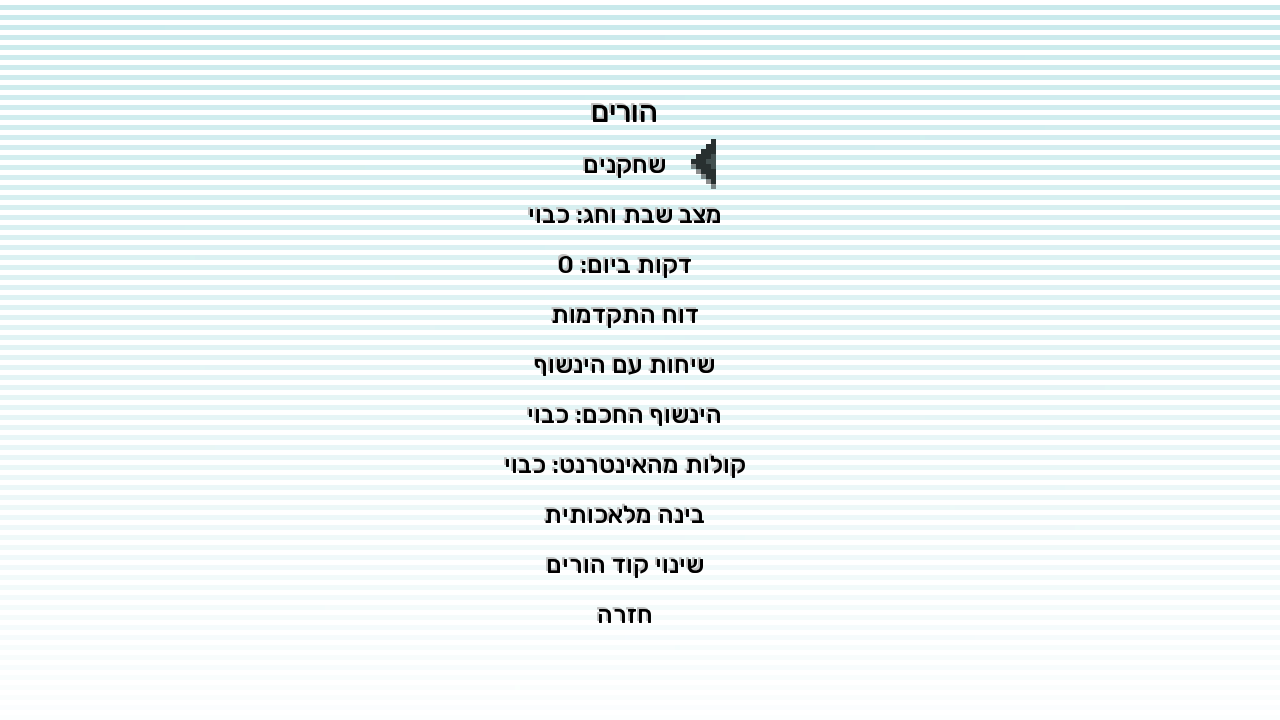
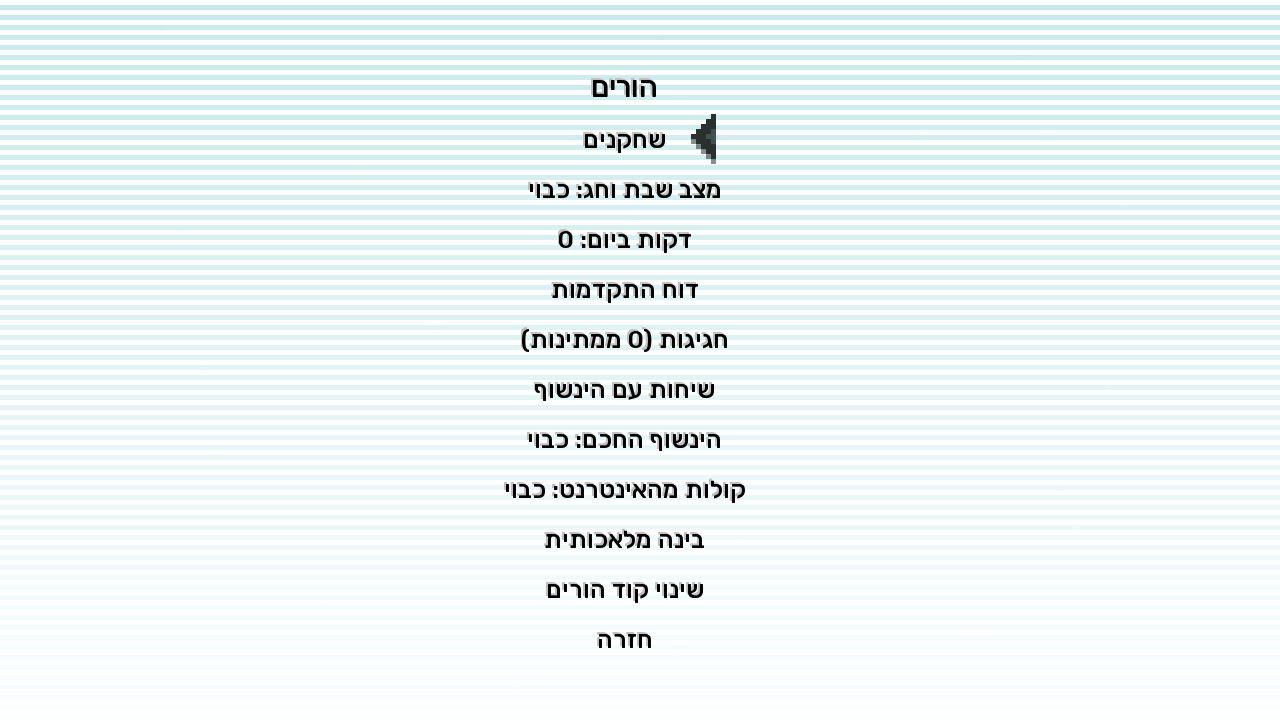
Suggest surprise celebrations to parents for effort milestones
Parents add a celebration only they can see; after each answer the game
checks the child's effort (practice days, mastered skills, stars, weekly
goals) and lists due celebrations in the parent area.

Claude-Session: https://claude.ai/code/session_01QXGUTMY9kQ8kTkR3CqxLvx

Changed region(s): [[0.375, 0.0917, 0.5938, 0.9167]]

diff --git a/mods/nagmon/states/profiles.py b/mods/nagmon/states/profiles.py
@@ -374,6 +374,7 @@ class ParentMenuState(PygameMenuState):
                 self.daily_minutes,
             ),
             ("report", T.translate("nagmon_parent_report"), self.report),
+            ("celebrate", self._celebrations_title(), self.celebrations),
             ("owl_log", T.translate("nagmon_parent_owl_log"), self.owl_log),
             ("owl", self._owl_title(), self.toggle_owl),
             ("voices", self._voices_title(), self.toggle_voices),
@@ -463,6 +464,82 @@ class ParentMenuState(PygameMenuState):
             )
 
         self._pick_child(show)
+
+    # -------------------------------------------------------- celebrations
+
+    MILESTONES: ClassVar[tuple[tuple[str, int], ...]] = (
+        ("practice_days", 5),
+        ("practice_days", 15),
+        ("skills_mastered", 3),
+        ("skills_mastered", 10),
+        ("stars", 10),
+        ("weekly_goals", 2),
+    )
+
+    def _celebrations_title(self) -> str:
+        pending = len(self.rt.rewards.pending())
+        return T.format("nagmon_celebrations", {"count": pending})
+
+    def celebrations(self) -> None:
+        board = self.rt.rewards
+        names = {p.id: p.name for p in self.rt.store.list()}
+        options: list[tuple[str, Callable[[], None]]] = []
+        for sug in board.pending():
+            who = names.get(sug.profile_id or "", "")
+            options.append(
+                (
+                    f"{who}: {sug.message_he}" if who else sug.message_he,
+                    lambda sid=sug.id: self._decide(sid),
+                )
+            )
+        options.append(
+            (T.translate("nagmon_add_celebration"), self._add_celebration)
+        )
+        choose(self.client, options)
+
+    def _decide(self, sid: str) -> None:
+        board = self.rt.rewards
+        choose(
+            self.client,
+            [
+                (
+                    T.translate("nagmon_celebrated"),
+                    lambda: (board.mark_celebrated(sid), self.rebuild()),
+                ),
+                (
+                    T.translate("nagmon_not_now"),
+                    lambda: (board.dismiss(sid), self.rebuild()),
+                ),
+            ],
+        )
+
+    def _add_celebration(self) -> None:
+        def with_milestone(kind: str, threshold: int) -> None:
+            ask_text(
+                self.client,
+                T.translate("nagmon_celebration_title_prompt"),
+                lambda title: self._store_celebration(title, kind, threshold),
+                char_limit=24,
+            )
+
+        choose(
+            self.client,
+            [
+                (
+                    T.format(f"nagmon_milestone_{kind}", {"n": n}),
+                    lambda k=kind, n=n: with_milestone(k, n),
+                )
+                for kind, n in self.MILESTONES
+            ],
+        )
+
+    def _store_celebration(self, title: str, kind: str, n: int) -> None:
+        if not title.strip():
+            return
+        self.rt.rewards.add_celebration(
+            title_he=title.strip(), milestone=kind, threshold=n
+        )
+        say(self.client, T.translate("nagmon_celebration_saved"))
 
     def owl_log(self) -> None:
         from nagmon.owl_service import owl_log_lines

diff --git a/nagmon/runtime.py b/nagmon/runtime.py
@@ -20,6 +20,7 @@ from nagmon.family.calendar import ShabbatCalendar
 from nagmon.family.goals import PracticeLog
 from nagmon.family.parent import ParentStore
 from nagmon.family.profiles import Profile, ProfileStore
+from nagmon.family.rewards import ProgressStats, RewardsBoard, Suggestion
 from nagmon.family.screentime import (
     Action,
     Decision,
@@ -100,6 +101,7 @@ class NagmonRuntime:
         self.engine: Any = None
         self.tracker = SessionTracker(self.root, self.policy_for, tz=self.zone)
         self.practice = PracticeLog(self.root, tz=self.zone)
+        self.rewards = RewardsBoard(self.root, clock=clock)
 
     # ------------------------------------------------------------ time
 
@@ -196,12 +198,42 @@ class NagmonRuntime:
         self.store.save_learner(self.active.id, self.learner)
         self.store.save(self.active)
 
-    def on_answer(self) -> None:
-        """After every answer: save, and count today as a practice day."""
+    def on_answer(self) -> list[Suggestion]:
+        """
+        After every answer: save, count today as a practice day, and see
+        whether a celebration is due (the parent is told, not the child).
+        """
         if self.active is None:
-            return
+            return []
         self.persist()
         self.practice.record(self.active.id, self.now())
+        return self.rewards.evaluate(
+            self.active.id, self.progress_stats(self.active.id)
+        )
+
+    def progress_stats(self, pid: str) -> ProgressStats:
+        """A child's effort so far, for celebrations."""
+        if self.active is not None and self.active.id == pid:
+            learner = self.learner
+        else:
+            learner = self.store.load_learner(pid)
+        profile = self.store.get(pid)
+        target = self.parent.settings.weekly_days_for(
+            pid, age_from_profile(profile, self.clock())
+        )
+        mastered = getattr(learner, "mastered", {}) or {}
+        stars = getattr(learner, "stars", {}) or {}
+        return ProgressStats(
+            practice_days=self.practice.total_days(pid),
+            skills_mastered=frozenset(mastered),
+            weekly_goals_met=self.practice.weeks_met(
+                pid,
+                self.now(),
+                target_days=target,
+                is_rest_day=self.is_rest_day,
+            ),
+            stars=sum(stars.values()),
+        )
 
     def is_rest_day(self, d: Any) -> bool:
         """Shabbat and Yom Tov never count as days a child had to practise."""

diff --git a/tests/nagmon/test_runtime.py b/tests/nagmon/test_runtime.py
@@ -22,6 +22,8 @@ class FakeLearner:
     settings: dict[str, Any] = field(default_factory=dict)
     words: dict[str, float] = field(default_factory=dict)
     answers_total: int = 0
+    stars: dict[str, int] = field(default_factory=dict)
+    mastered: dict[str, float] = field(default_factory=dict)
 
     def to_dict(self) -> dict[str, Any]:
         return {
@@ -251,3 +253,28 @@ def test_saturday_is_a_rest_day(rt):
 
     assert rt.is_rest_day(date(2023, 11, 25))  # Saturday
     assert not rt.is_rest_day(date(2023, 11, 21))  # Tuesday
+
+
+def test_celebration_suggested_to_parent_after_practice(rt):
+    rt.clock = lambda: TUESDAY_AFTERNOON
+    rt.rewards.add_celebration(
+        title_he="ערב פיצה", milestone="practice_days", threshold=1
+    )
+    p = rt.store.create(name="Rina", avatar="x")
+    rt.activate(p.id)
+    suggestions = rt.on_answer()
+    assert len(suggestions) == 1
+    assert rt.rewards.pending()[0].profile_id == p.id
+    # Kids never see it in surprise mode.
+    assert rt.rewards.kid_view(p.id, rt.progress_stats(p.id)) == []
+
+
+def test_progress_stats_counts_stars_and_mastery(rt):
+    rt.clock = lambda: TUESDAY_AFTERNOON
+    p = rt.store.create(name="Eli", avatar="x")
+    rt.activate(p.id)
+    rt.learner.stars = {"math": 2, "english": 1}
+    rt.learner.mastered = {"math.add": 1.0}
+    stats = rt.progress_stats(p.id)
+    assert stats.stars == 3
+    assert stats.skills_mastered == frozenset({"math.add"})

diff --git a/tests/nagmon/test_nagmon_strings.py b/tests/nagmon/test_nagmon_strings.py
@@ -1,0 +1,42 @@
+"""Every msgid Nagmon's Python code uses exists in both nagmon.po files."""
+
+from __future__ import annotations
+
+import re
+from pathlib import Path
+
+REPO = Path(__file__).resolve().parents[2]
+PO = REPO / "mods" / "nagmon" / "l18n"
+CODE = [
+    *(REPO / "mods" / "nagmon").rglob("*.py"),
+    *(REPO / "nagmon").rglob("*.py"),
+]
+USED = re.compile(r'T\.(?:translate|format)\(\s*f?"(nagmon_[a-z0-9_{}]+)"')
+
+
+def _msgids(locale: str) -> set[str]:
+    text = (PO / locale / "LC_MESSAGES" / "nagmon.po").read_text("utf-8")
+    return set(re.findall(r'^msgid "([^"]+)"', text, re.M))
+
+
+def test_both_languages_have_the_same_keys():
+    assert _msgids("en_US") == _msgids("he_IL")
+
+
+def test_code_uses_only_existing_keys():
+    known = _msgids("en_US")
+    missing = set()
+    for path in CODE:
+        for key in USED.findall(path.read_text("utf-8")):
+            if "{" in key:  # f-string family, e.g. nagmon_grade_{g}
+                prefix = key.split("{")[0]
+                if not any(k.startswith(prefix) for k in known):
+                    missing.add(key)
+            elif key not in known:
+                missing.add(key)
+    assert not missing, sorted(missing)
+
+
+def test_no_niqqud_in_hebrew():
+    text = (PO / "he_IL" / "LC_MESSAGES" / "nagmon.po").read_text("utf-8")
+    assert not re.search("[֑-ׇֽֿׁׂׅׄ]", text)
